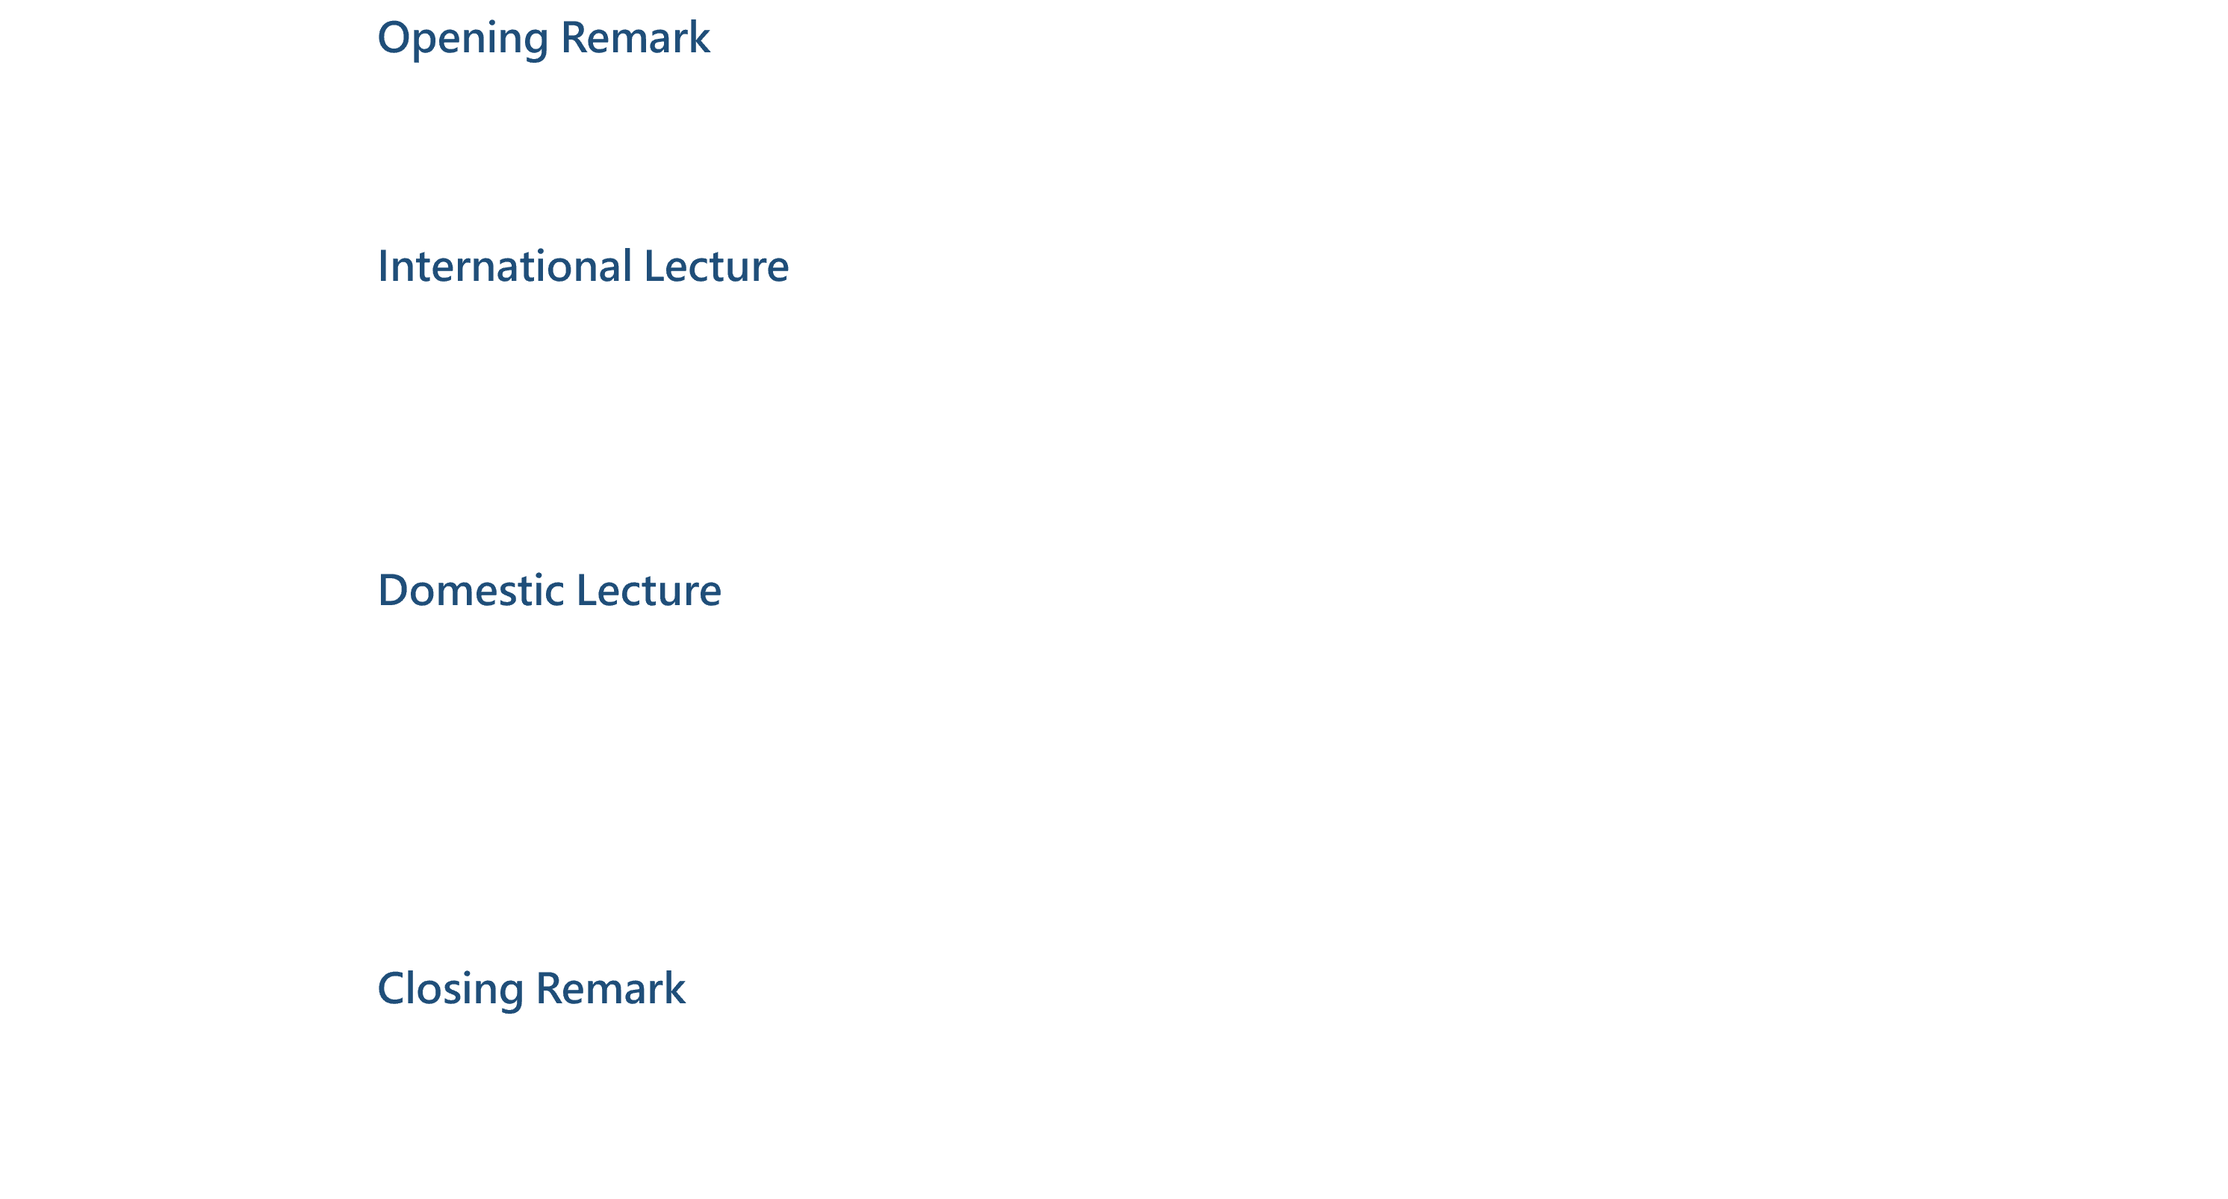
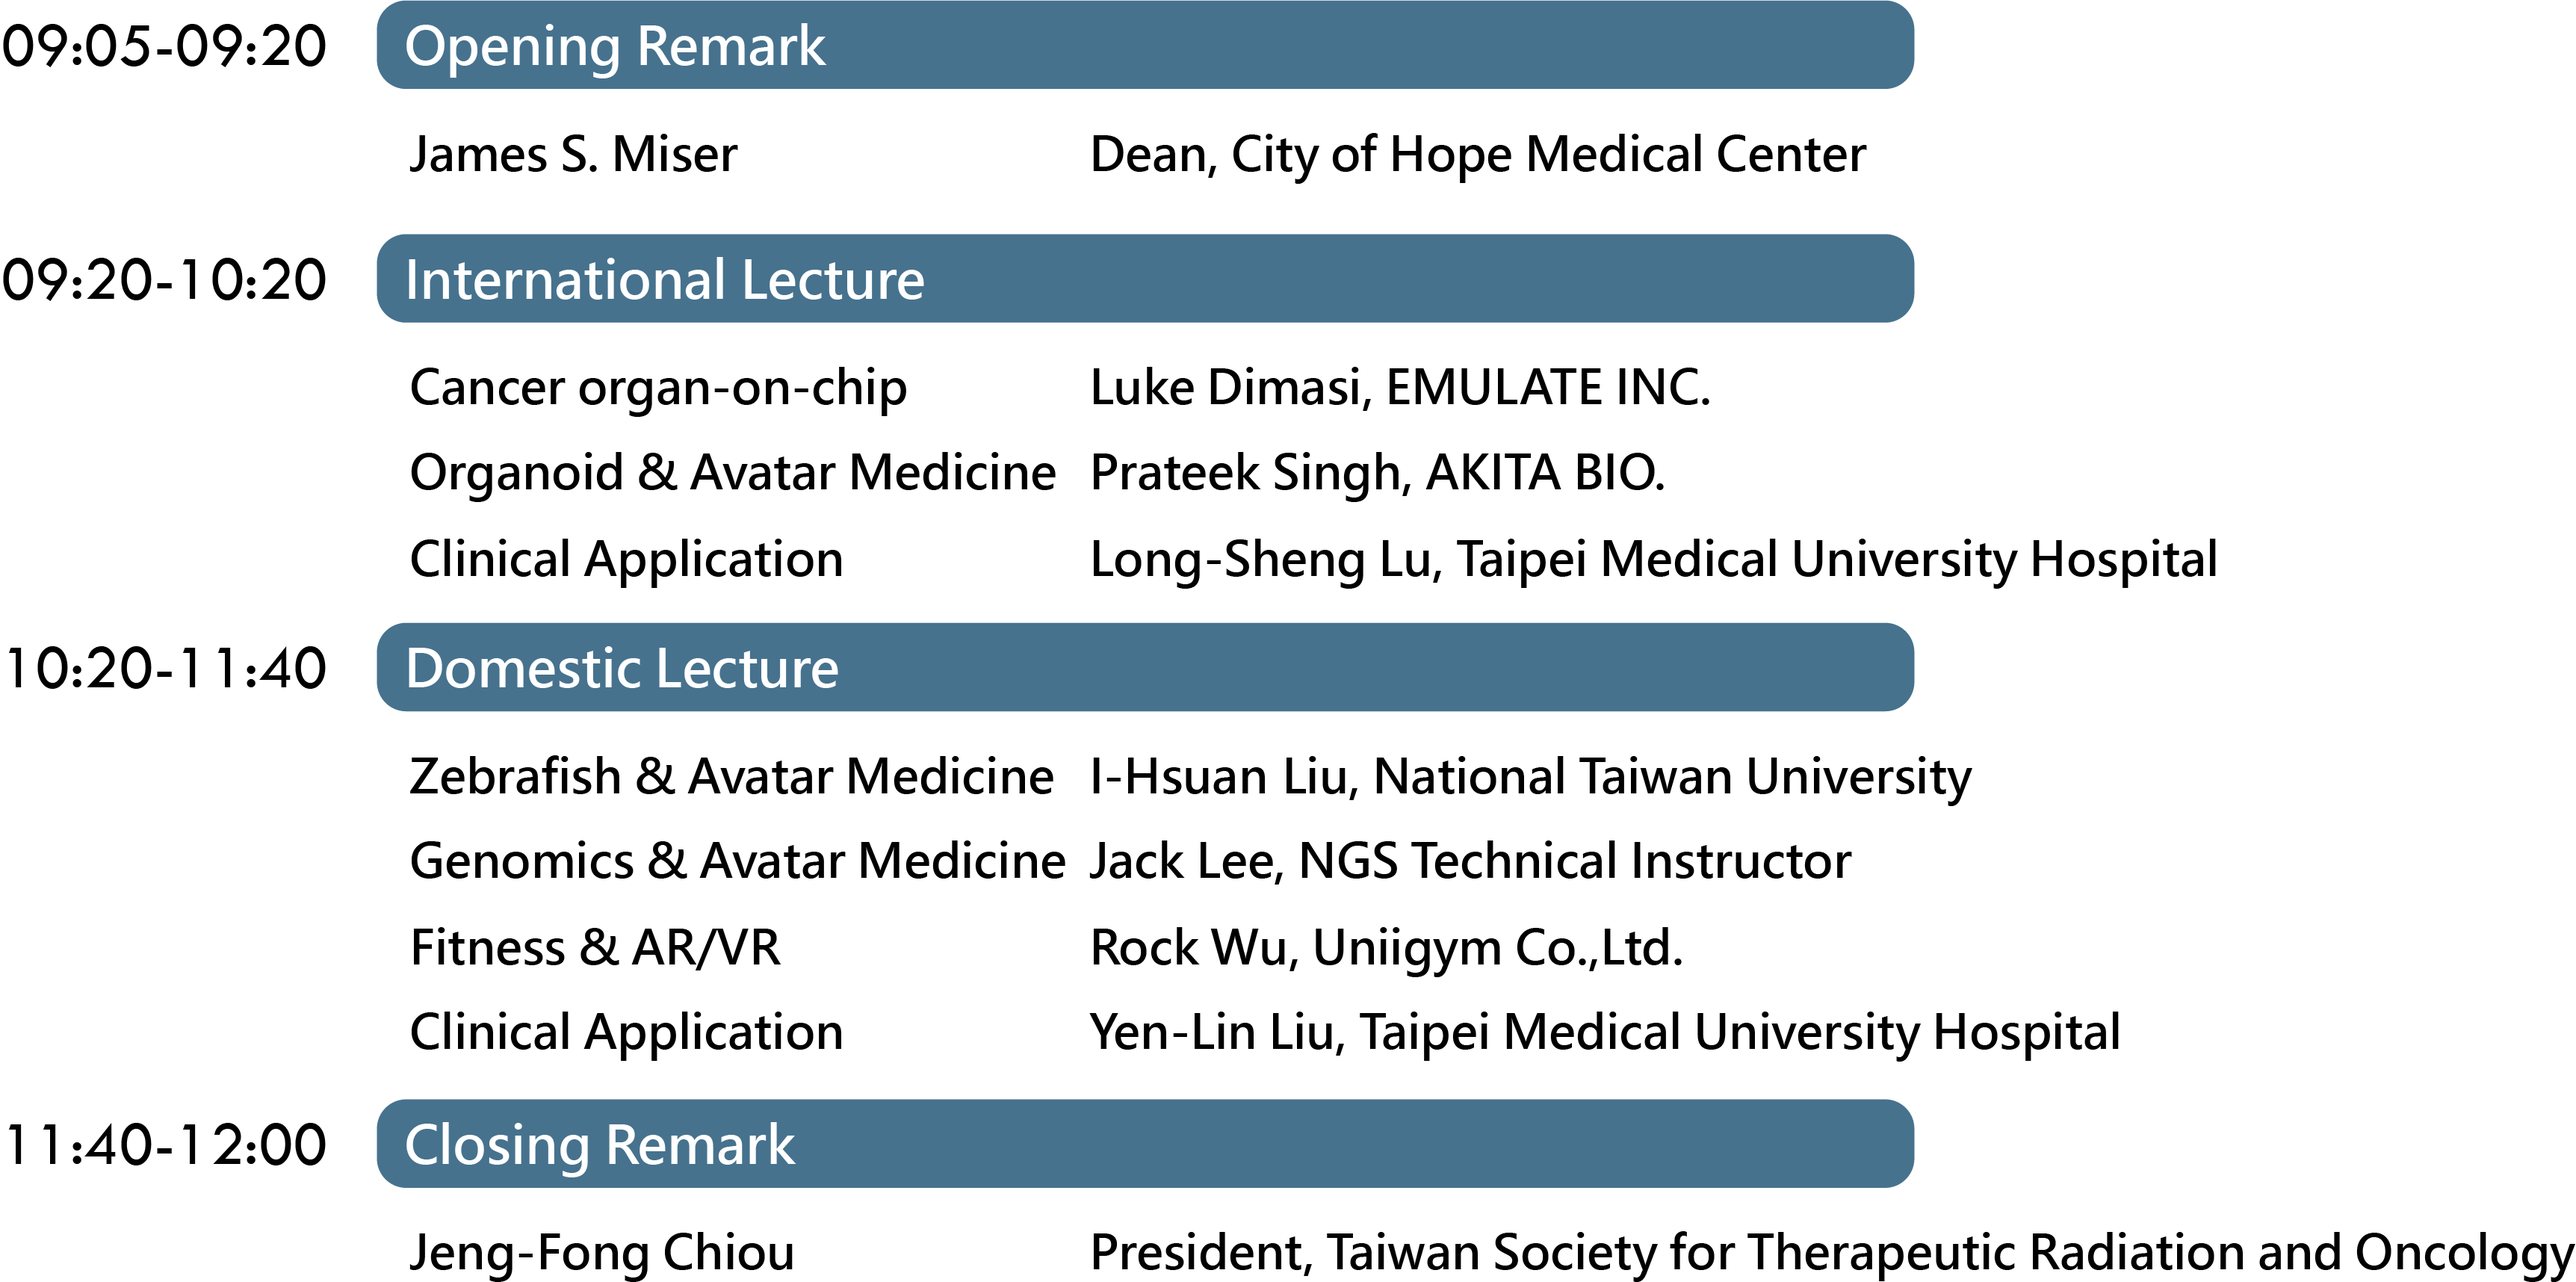
update_image

diff --git a/ForumEN.html b/ForumEN.html
@@ -266,11 +266,15 @@
 
         </div>
 
-        <div class="session" , style="height: 85vw;">
+        <div class="session-agenda">
             <div class="session_title">
                 <div class="session_title_txt" , id="agenda" , style="color: black;">Agenda</div>
                 <div class="agenda">
-                    <img src="./2023_images/agendaEng.png" alt="agendaEng.png">
+                    <picture>
+                        <!-- 寬度小於768使用agendaChi_media.png，否則使用agendaChi.png -->
+                        <source media="(max-width: 768px)" srcset="./2023_images/agendaEng_media.png">
+                        <img src="./2023_images/agendaEng.png" alt="agendaChi.png">
+                    </picture>
                 </div>
             </div>
         </div>
